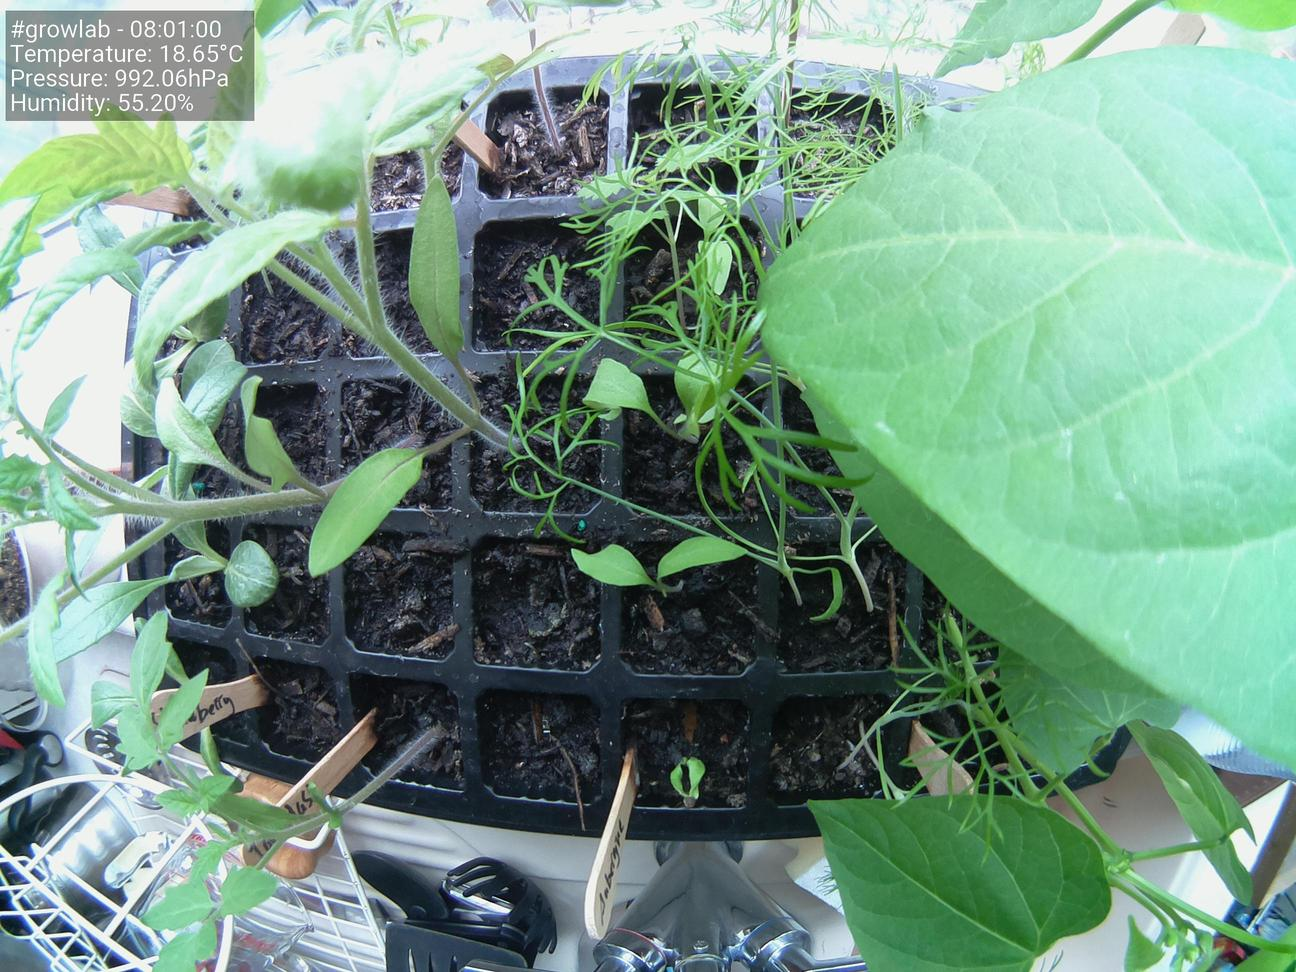
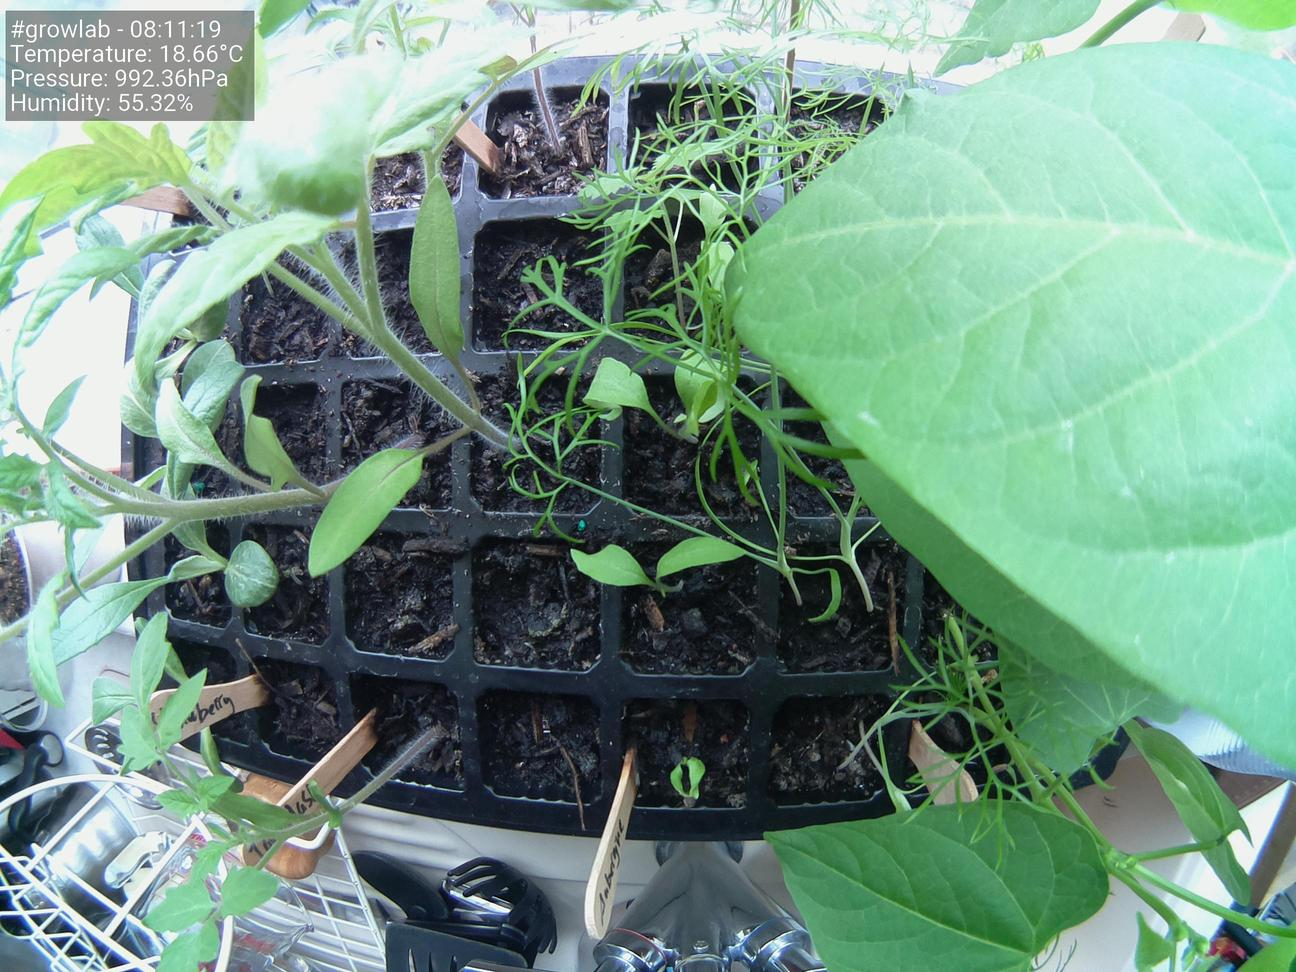
Update images at Tue  4 May 08:11:31 BST 2021

diff --git a/docs/index.html b/docs/index.html
@@ -38,19 +38,19 @@
                     <tbody>
                         <tr>
                             <td>Time</td>
-                            <td>08:01:00</td>
+                            <td>08:11:19</td>
                         </tr>
                         <tr>
                             <td>Temperature</td>
-                            <td>18.65°C</td>
+                            <td>18.66°C</td>
                         </tr>
                         <tr>
                             <td>Humidity</td>
-                            <td>55.20%</td>
+                            <td>55.32%</td>
                         </tr>
                         <tr>
                             <td>Pressure</td>
-                            <td>992.06hPa</td>
+                            <td>992.36hPa</td>
                         </tr>
                     </tbody>
                 </table>
@@ -58,7 +58,7 @@
 
                 <h5>Latest image</h5>
 		<div style="width: 85%;">
-	                <img class="figure-img img-fluid rounded" src="./preview.jpg?uid=1620111671.2777293">
+	                <img class="figure-img img-fluid rounded" src="./preview.jpg?uid=1620112290.7996342">
 		</div>
             </div>
         </div>
